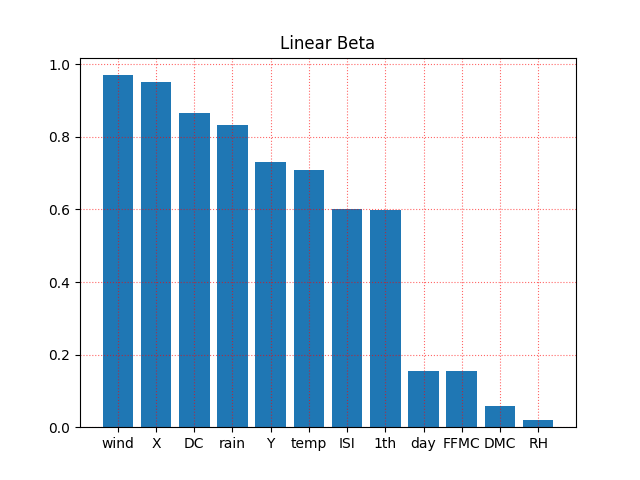
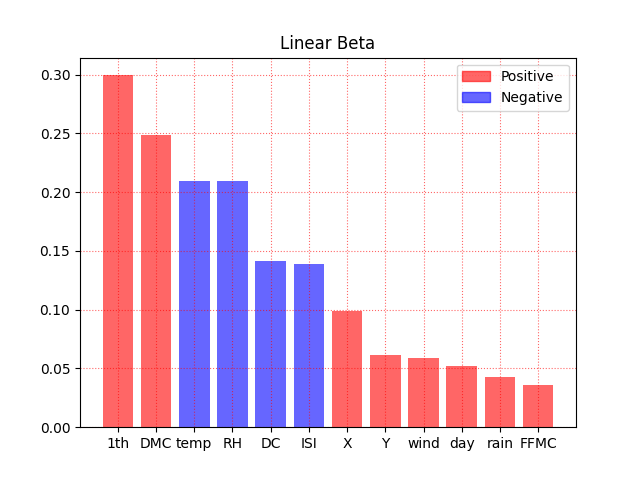
version1

diff --git a/train.py b/train.py
@@ -1,9 +1,162 @@
 from dataset import get_data
+from model import *
+
+# def Cal_
 
 ######################## Get train/test dataset ########################
 X_train, X_test, Y_train, Y_test = get_data("./dataset/forestfires.csv")
+Linear_train = False
+LinearPath = './models/Linear.npy'
+LinearParaPath = './models/LinearPara.npy'
+
+Ridge_train = False
+RawRidgePath = './models/Ridge'
+RawRidgeParaPath = './models/RidgePara'
+
+Lasso_train = False
+use_coordinate_descent = True
+RawLassoPath = './models/Lasso'
+RawLassoParaPath = './models/LassoPara'
 
 
+######################## Linear regression #############################
+print("-------------- Linear Regression --------------")
+lr =  0.00002
+LinearEpochs = int(1e6)
+figName = 'Linear'
+Linear = LinearRegression(X_train, Y_train)
+
+if Linear_train:
+    for epoch in range(LinearEpochs):
+            loss = Linear.loss()
+            deri = Linear.derivative()
+            Linear.update(lr)
+            if(epoch%100000 == 0):
+                print(f'Epoch {epoch}: loss = {loss}, derivative = {deri}')
+    np.save(LinearPath, Linear.beta)
+    np.save(LinearParaPath, np.array([LinearEpochs, lr]))
+    print(f"LinearRegression Model has been saved at {LinearPath}.")
+else:
+    LinearEpochs, lr = np.load(LinearParaPath)
+    Linear.load(LinearPath)
+
+polt_beta(Linear.beta, figName)
+print(f"Bar chart of Beta has been saved at ./fig/{figName}.png")
+SSE = sse_loss(Linear.predict(X_test), Y_test)
+print(f"LinearRegression SSE = {SSE}, Parameters: Epochs = {LinearEpochs}, lr = {lr}.")
+print()
+
+######################## Ridge regression ##############################
+print("-------------- Ridge Regression --------------")
+lr =  0.000033
+Lambdas = [1, 10, 100, 1000]
+# RidgeEpochs = int(1e5)
+RawfigName = 'Ridge'
+
+for Lambda in Lambdas:
+    if Lambda < 100: RidgeEpochs = int(1e6)
+    else: RidgeEpochs = int(1e5)
+    Ridge = RidgeRegression(X_train, Y_train, Lambda)
+    figName = RawfigName + f'_lambda{Lambda}'
+    RidgePath = RawRidgePath + f'_lambda{Lambda}.npy'
+    RidgeParaPath = RawRidgeParaPath + f'_lambda{Lambda}.npy'
+    if Ridge_train:
+        # Ridge.analysis_fit(X_train, Y_train)
+        for epoch in range(RidgeEpochs):
+                loss = Ridge.loss()
+                deri = Ridge.derivative()
+                Ridge.update(lr)
+                # if(epoch%10000 == 0):
+                #     print(f'Epoch {epoch}: loss = {loss}, derivative = {deri}')
+        np.save(RidgePath, Ridge.beta)
+        np.save(RidgeParaPath, np.array([RidgeEpochs, lr, Lambda]))
+        print(f"RidgeRegression Model has been saved at {RidgePath}.")
+    else:
+        RidgeEpochs, lr, Lambda = np.load(RidgeParaPath)
+        Ridge.load(RidgePath)
+
+    polt_beta(Ridge.beta, figName)
+    print(f"Bar chart of Beta has been saved at ./fig/{figName}.png")
+    SSE = sse_loss(Ridge.predict(X_test), Y_test)
+    print(f"RidgeRegression SSE = {SSE}, Parameters: Epochs = {RidgeEpochs}, lr = {lr}, Lambda = {Lambda}.")
+print()
+
+######################## RBF Kernel regression #########################
+print("-------------- RBF Kernel Regression --------------")
+sigma = 50 # [1, 50, 500, 5000]
+Lambdas = [1, 10, 100, 1000]
+RawfigName = 'Kernel'
+
+for Lambda in Lambdas:
+    Kernel = RBFKernelRegression(X_train, Y_train, Lambda, sigma)
+    figName = RawfigName + f'_lambda{Lambda}_Sigma{sigma}'
+    # KernelPath = RawKernelPath + f'_lambda{Lambda}.npy'
+    # KernelParaPath = RawKernelParaPath + f'_lambda{Lambda}.npy'
+    Kernel.analysis_fit()
+
+    plot_c(Kernel.c, figName)
+    print(f"Bar chart of c has been saved at ./fig/{figName}.png")
+    SSE = sse_loss(Kernel.predict(X_test), Y_test)
+    print(f"KernelRegression SSE = {SSE}, Parameters: Lambda = {Lambda}, Sigma = {sigma}.")
+print()
+
+######################## Lasso regression ##############################
+print("-------------- Lasso Regression --------------")
+lr =  0.0001
+Lambdas = [1, 10, 100, 1000]
+a = 1.7
+b = 0.01
+interval = 10000
+LassoEpochs = int(1e6)
+RawfigName = 'Lasso'
+
+if not use_coordinate_descent:
+    for Lambda in Lambdas:
+        if Lambda < 100: LassoEpochs = int(1e6)
+        else: LassoEpochs = int(1e5)
+        Lasso = LassoRegression(X_train, Y_train, Lambda)
+        figName = RawfigName + f'_lambda{Lambda}'
+        LassoPath = RawLassoPath + f'_lambda{Lambda}.npy'
+        LassoParaPath = RawLassoParaPath + f'_lambda{Lambda}.npy'
+        if Lasso_train:
+            for epoch in range(LassoEpochs):
+                    loss = Lasso.loss()
+                    deri = Lasso.derivative()
+                    Lasso.update(lr)
+                    # if(epoch%10000 == 0):
+                    #     print(f'Epoch {epoch}: loss = {loss}, derivative = {deri}')
+            np.save(LassoPath, Lasso.beta)
+            np.save(LassoParaPath, np.array([LassoEpochs, lr, Lambda]))
+            print(f"LassoRegression Model has been saved at {LassoPath}.")
+        else:
+            LassoEpochs, lr, Lambda = np.load(LassoParaPath)
+            Lasso.load(LassoPath)
+
+        polt_beta(Lasso.beta, figName)
+        print(f"Bar chart of Beta has been saved at ./fig/{figName}.png")
+        SSE = sse_loss(Lasso.predict(X_test), Y_test)
+        print(f"LassoRegression SSE = {SSE}, Parameters: Epochs = {LassoEpochs}, lr = {lr}, Lambda = {Lambda}, Method: GD.")
+
+else:
+    Lasso = LassoRegression(X_train, Y_train, Lambda)
+    figName = RawfigName + f'_a{a}_b{b}_intervel{interval}.png'
+    LassoPath = RawLassoPath + f'a{a}_b{b}_intervel{interval}.npy'
+    LassoParaPath = RawLassoParaPath + f'a{a}_b{b}_intervel{interval}.npy'
+    if Lasso_train:
+        Lasso.CoordinateDescent(a, b, interval)
+        np.save(LassoPath, Lasso.beta)
+        np.save(LassoParaPath, np.array([a, b, interval]))
+        print(f"LassoRegression Model has been saved at {LassoPath}.")
+    else:
+        a, b, interval = np.load(LassoParaPath)
+        Lasso.load(LassoPath)
+
+    polt_beta(Lasso.beta, figName)
+    print(f"Bar chart of Beta has been saved at ./fig/{figName}.png")
+    SSE = sse_loss(Lasso.predict(X_test), Y_test)
+    print(f"LassoRegression SSE = {SSE}, Parameters: a = {a}, b = {b}, intervel = {interval}, Method: CD.")
+
+print()
 
 
 ########################################################################

diff --git a/model.py b/model.py
@@ -4,6 +4,7 @@ import numpy as np
 from dataset import get_data
 # from data_preprocess import DataSet
 from matplotlib import pyplot as plt
+import matplotlib.patches as mpatches
 
 # y_i = beta.T @ X_i
 class LinearRegression:
@@ -29,11 +30,14 @@ class LinearRegression:
         Y = np.array(Y_train)
         self.beta = np.linalg.inv(X.T @ X) @ X.T @ Y
     
-    def update(self, lr = 0.00002):
+    def update(self, lr = 0.0000002):
         self.beta = self.beta - lr * self.deri
     
     def predict(self, X):
         return X @ self.beta
+
+    def load(self, path):
+        self.beta = np.load(path)
     
 
 #l(beta) = (Y - beta.T @ X).T @ (Y - beta.T @ X) + Lambda * beta.T @ beta
@@ -62,11 +66,14 @@ class RidgeRegression:
         Y = np.array(Y_train)
         self.beta = np.linalg.inv(X.T @ X + self.Lambda * np.eye(len(self.beta))) @ X.T @ Y
     
-    def update(self, lr = 0.000002):
+    def update(self, lr = 0.00033):
         self.beta = self.beta - lr * self.deri
     
     def predict(self, X): 
         return X @ self.beta
+    
+    def load(self, path):
+        self.beta = np.load(path)
     
 #l(c) = (Y - Kc).T @ (Y - Kc) + Lambda * c.T @ K @ c
 class RBFKernelRegression:
@@ -104,7 +111,7 @@ class RBFKernelRegression:
     def analysis_fit(self):
         self.c = np.linalg.inv(self.K + self.Lambda * np.eye(len(self.c))) @ self.Y
     
-    def update(self, lr = 0.000002):
+    def update(self, lr = 0.0000001):
         self.c = self.c - lr * self.deri
     
     def predict(self, X_): 
@@ -150,6 +157,9 @@ class LassoRegression:
                 Xj = self.X.T[j]
                 gamma = R @ Xj / (Xj.T @ Xj)
                 self.beta[j] = np.sign(gamma) * max(0, abs(gamma) - Lambda / (Xj.T @ Xj))
+
+    def load(self, path):
+        self.beta = np.load(path)
     
 def sse_loss(Y_predict, Y_test):
     N = len(Y_test)
@@ -164,20 +174,42 @@ def polt_beta(beta, name, is_removed_bias = 1):
     if is_removed_bias:
         attri = attri[1:]
         x = x[1:]
-        
-    attri_idx = np.argsort(-x)
-    x = -np.sort(-x)
-    attri = attri[attri_idx]
+
+    colors = np.where(x > 0, 'r', 'b')
+    x = abs(x)
+    adj_idx = np.argsort(-x)
     
     plt.figure()
-    plt.bar(attri, x)
-    plt.grid(True,linestyle=':',color='r',alpha=0.6)
+    plt.bar(attri[adj_idx], x[adj_idx], color = colors[adj_idx], alpha = 0.6)
+    plt.grid(True, linestyle=':', color='r', alpha=0.6)
+    pos_patch = mpatches.Patch(color='red', label='Positive', alpha = 0.6)
+    neg_patch = mpatches.Patch(color='blue', label='Negative', alpha = 0.6)
+    plt.legend(handles=[pos_patch, neg_patch])
     # plt.xlabel(attri)
     plt.title(f'{name} Beta')
     plt.savefig(f'fig/{name}.png')
 
+def plot_c(c, name):
+    x = c.copy()
+    colors = np.where(x > 0, 'r', 'b')
+    x = abs(x)
+    adj_idx = np.argsort(-x)
+    # print(x[adj_idx])
+    # print(len(c))
+    plt.figure()
+    plt.bar(range(len(c)), x[adj_idx], color = colors[adj_idx], alpha = 0.6)
+    plt.xlim((0, len(c)))
+    plt.ylim((0, x.max()))
+    plt.grid(True, linestyle=':', color='r', alpha=0.6)
+    pos_patch = mpatches.Patch(color='red', label='Positive', alpha = 0.6)
+    neg_patch = mpatches.Patch(color='blue', label='Negative', alpha = 0.6)
+    plt.legend(handles=[pos_patch, neg_patch])
+    # plt.xlabel(attri)
+    plt.title(f'{name} c')
+    plt.savefig(f'fig/{name}.png')
+
 if __name__ == "__main__":
-    epochs = 1500000
+    epochs = 10000
     X_train, X_test, Y_train, Y_test = get_data("./dataset/forestfires.csv")
     # print(X_train.T[3].std())
     
@@ -187,10 +219,10 @@ if __name__ == "__main__":
     # Ridge = RidgeRegression(X_train, Y_train, 90)
     # Ridge.analysis_fit(X_train, Y_train)
     
-    # Kernel = RBFKernelRegression(X_train, Y_train, 5, 50)
-    # Kernel.analysis_fit()
+    Kernel = RBFKernelRegression(X_train, Y_train, 5, 50)
+    Kernel.analysis_fit()
     
-    Lasso = LassoRegression(X_train, Y_train, 60)
+    # Lasso = LassoRegression(X_train, Y_train, 60)
     # Lasso.CoordinateDescent(1.7, 0.01, 10000)
     
     # for epoch in range(epochs):
@@ -206,10 +238,20 @@ if __name__ == "__main__":
     #     Lasso.update()
     #     if(epoch%5000 == 0):
     #         print(f'Epoch {epoch}: loss = {loss}, derivative = {deri}')
+
+    # for epoch in range(epochs):
+    #     loss = Ridge.loss()
+    #     deri = Ridge.derivative()
+    #     Ridge.update()
+    #     if(epoch%5000 == 0):
+    #         print(f'Epoch {epoch}: loss = {loss}, derivative = {deri}')
+
+    # print(Ridge.beta)
+    # polt_beta(Ridge.beta, 'Ridge')
             
     # print(f'Linear: {sse_loss(Linear.predict(X_test), Y_test)}')
     # print(f'Ridge: {sse_loss(Ridge.predict(X_test), Y_test)}')
-    # print(f'RBFKerner: {sse_loss(Kernel.predict(X_test), Y_test)}')
+    print(f'RBFKerner: {sse_loss(Kernel.predict(X_test), Y_test)}')
 
     # print(Linear.beta)
     # polt_beta(Linear.beta, 'Linear')

diff --git a/test.py b/test.py
@@ -4,23 +4,3 @@ from dataset import get_data
 
 X_train, X_test, Y_train, Y_test = get_data("./dataset/forestfires.csv")
 
-# X = np.array([[1, 2, 3], [2, 2, 3], [5, 3, 2]])
-
-# print(np.ones((4, 3)))
-# print(np.sum(X**2, axis = 1))
-# print((np.sum(X**2, axis = 1) * np.ones((4,3))))
-
-# beta = np.array([1, -1, -2, 2])
-# print(np.sign(beta))
-
-# print(max(0, -1))
-
-# x = np.array([1, 2, 3, 4])
-# x.sort()
-# print(x)
-
-
-a = np.array([3, 5, 1])
-b = np.argsort(-a)
-print("a:", end='')
-print(b)
